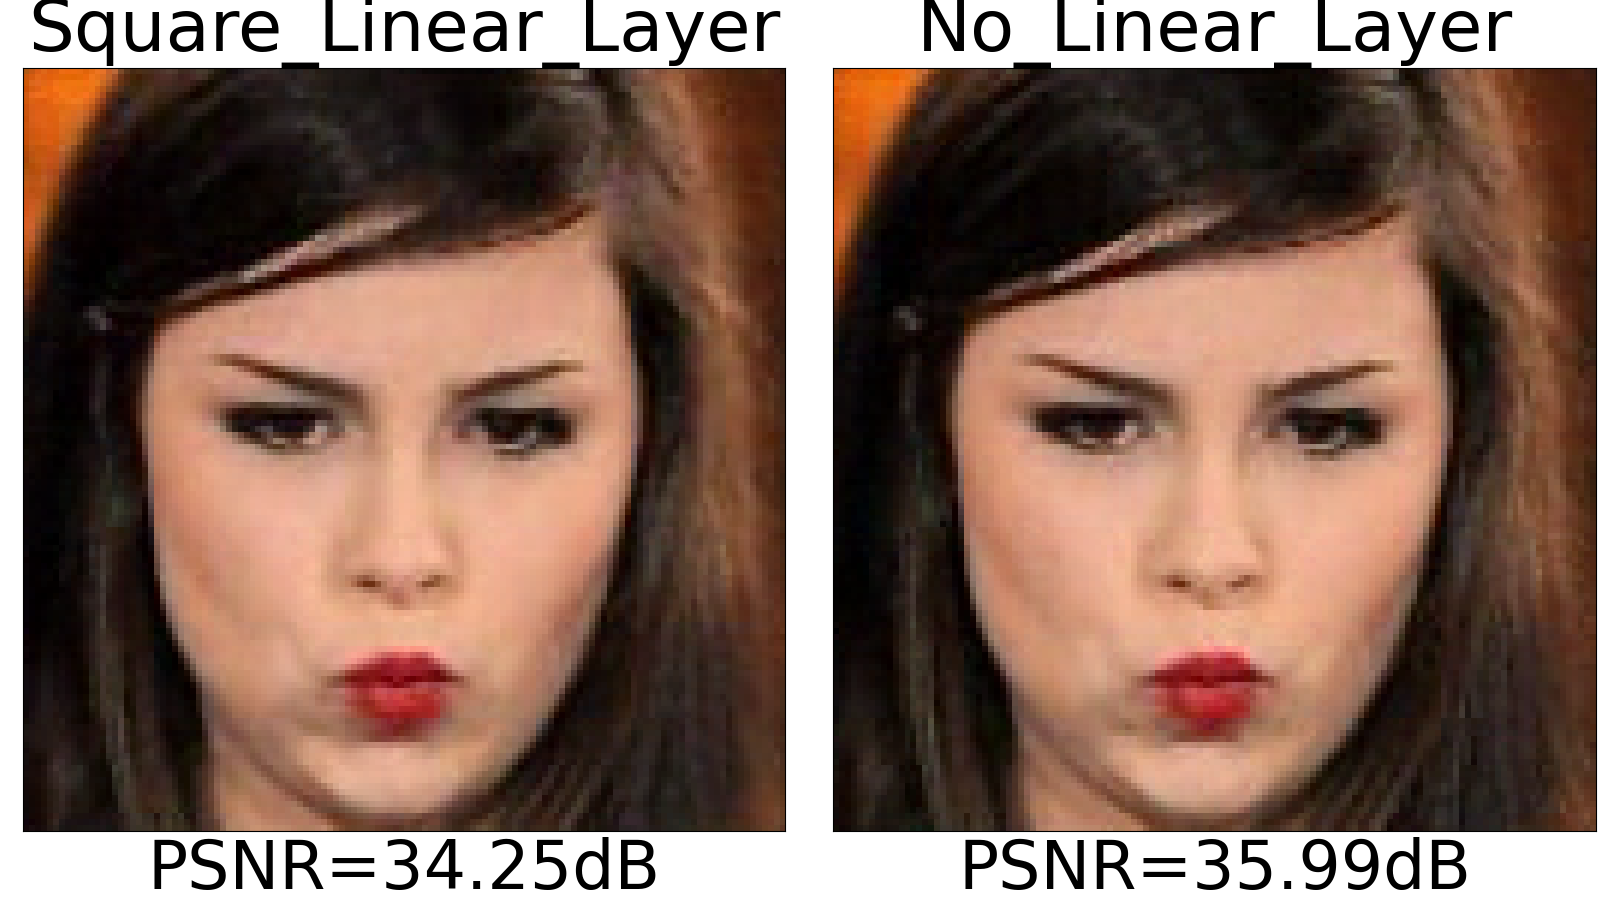
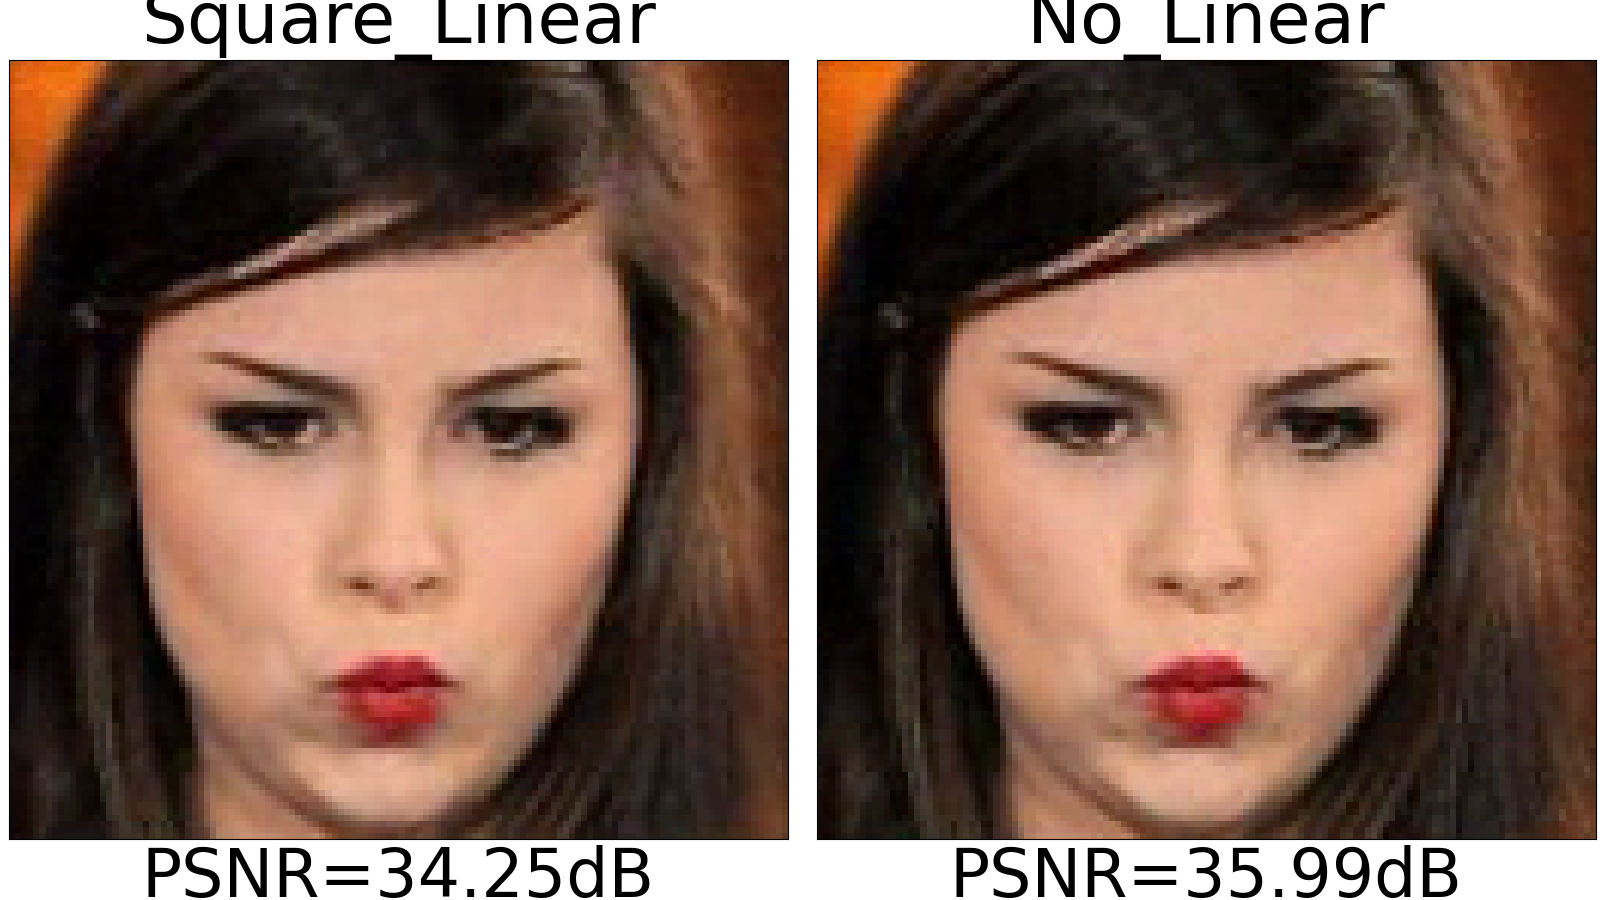
- Add more square linear layer comparisons

diff --git a/figures.py b/figures.py
@@ -121,7 +121,7 @@ def side_by_side_8192(img_fp):
                              },
                              constrained_layout=True)
 
-    axes[0].set_title('Square_Linear_Layer', fontsize=52)
+    axes[0].set_title('Square_Linear', fontsize=52)
     x_hat_1, _, psnr_gan_1 = compress(torch_img,
                                       skip_linear_layer=True,
                                       no_linear_layer=False,
@@ -134,7 +134,7 @@ def side_by_side_8192(img_fp):
     axes[0].set_xticks([])
     axes[0].set_yticks([])
 
-    axes[1].set_title('No_Linear_Layer', fontsize=52)
+    axes[1].set_title('No_Linear', fontsize=52)
     x_hat_2, _, psnr_gan_2 = compress(torch_img,
                                       skip_linear_layer=True,
                                       no_linear_layer=True,
@@ -385,24 +385,28 @@ if __name__ == "__main__":
 
     # make_psnr_scatterplot()
 
-    # side_by_side_8192("./images/obama.jpg")
-    # side_by_side_8192("./dataset/celeba_preprocessed/train/034782.pt")
-    # side_by_side_8192("./dataset/celeba_preprocessed/test/196479.pt")
-    # side_by_side_8192("./images/jack.jpg")
-    # side_by_side_8192("./images/ferns.jpg")
+    side_by_side_8192("./dataset/celeba_preprocessed/train/034782.pt")
+    side_by_side_8192("./dataset/celeba_preprocessed/test/196479.pt")
+    side_by_side_8192("./images/jack.jpg")
+    side_by_side_8192("./images/ferns.jpg")
+    side_by_side_8192("./images/horsehead_nebula.jpg")
+    side_by_side_8192("./images/subway.jpg")
+    side_by_side_8192("./images/campfire.jpg")
+    side_by_side_8192("./images/ocean.jpg")
+    side_by_side_8192("./images/snow_tree.jpg")
 
-    single_image("./dataset/celeba_preprocessed/train/034782.pt",
-                 cratio=6,
-                 n_steps=7500,
-                 CS=True,
-                 n_measure=4000)
-    single_image("./dataset/celeba_preprocessed/test/196479.pt",
-                 cratio=6,
-                 n_steps=7500,
-                 CS=True,
-                 n_measure=4000)
-    single_image("./images/jack.jpg",
-                 cratio=6,
-                 n_steps=7500,
-                 CS=True,
-                 n_measure=5000)
+    # single_image("./dataset/celeba_preprocessed/train/034782.pt",
+    #              cratio=6,
+    #              n_steps=7500,
+    #              CS=True,
+    #              n_measure=4000)
+    # single_image("./dataset/celeba_preprocessed/test/196479.pt",
+    #              cratio=6,
+    #              n_steps=7500,
+    #              CS=True,
+    #              n_measure=4000)
+    # single_image("./images/jack.jpg",
+    #              cratio=6,
+    #              n_steps=7500,
+    #              CS=True,
+    #              n_measure=5000)
